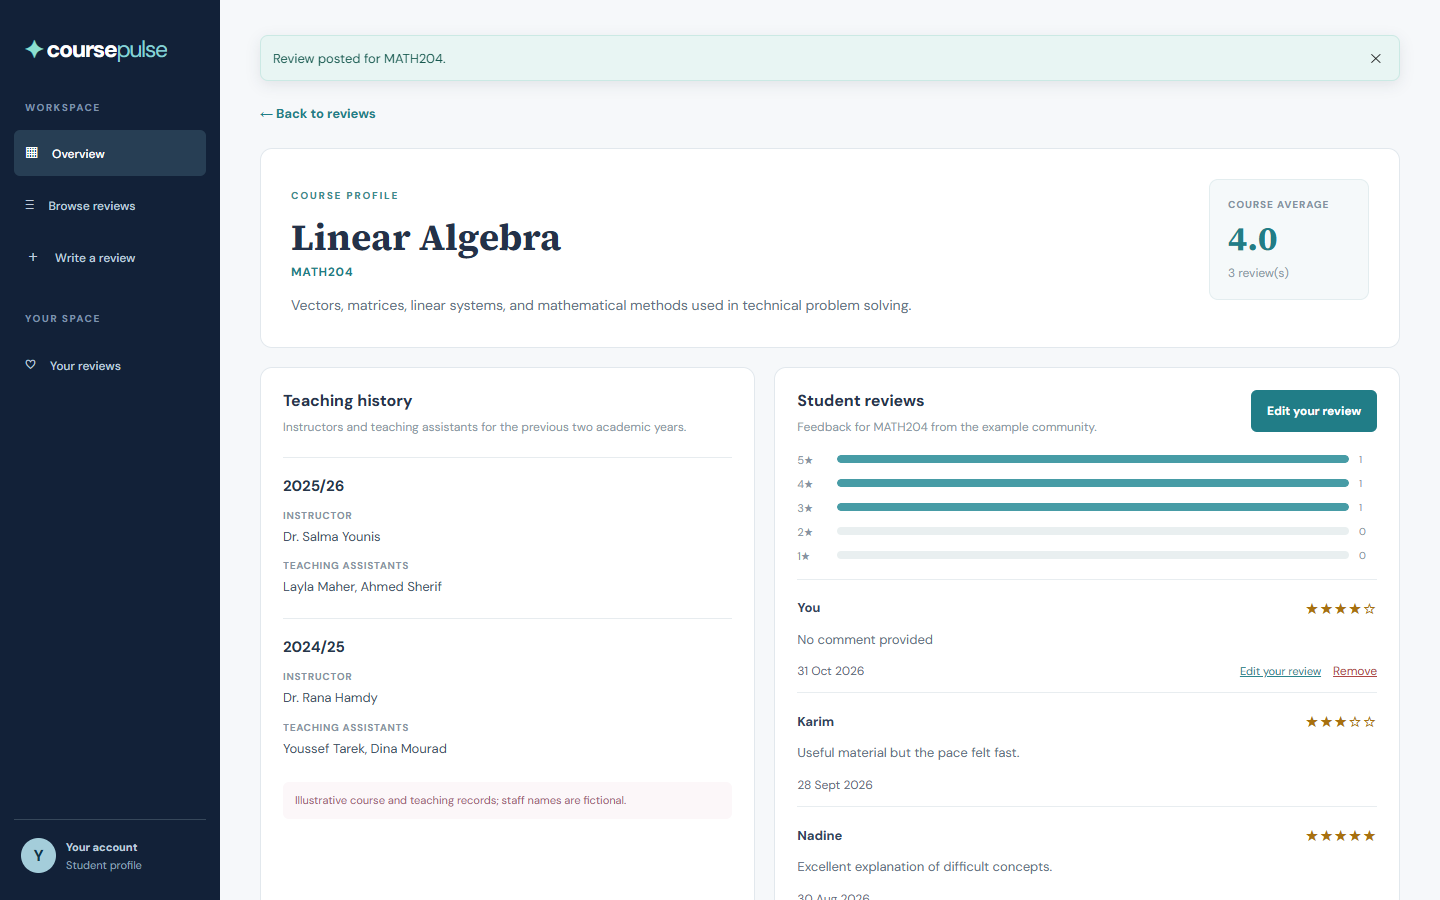
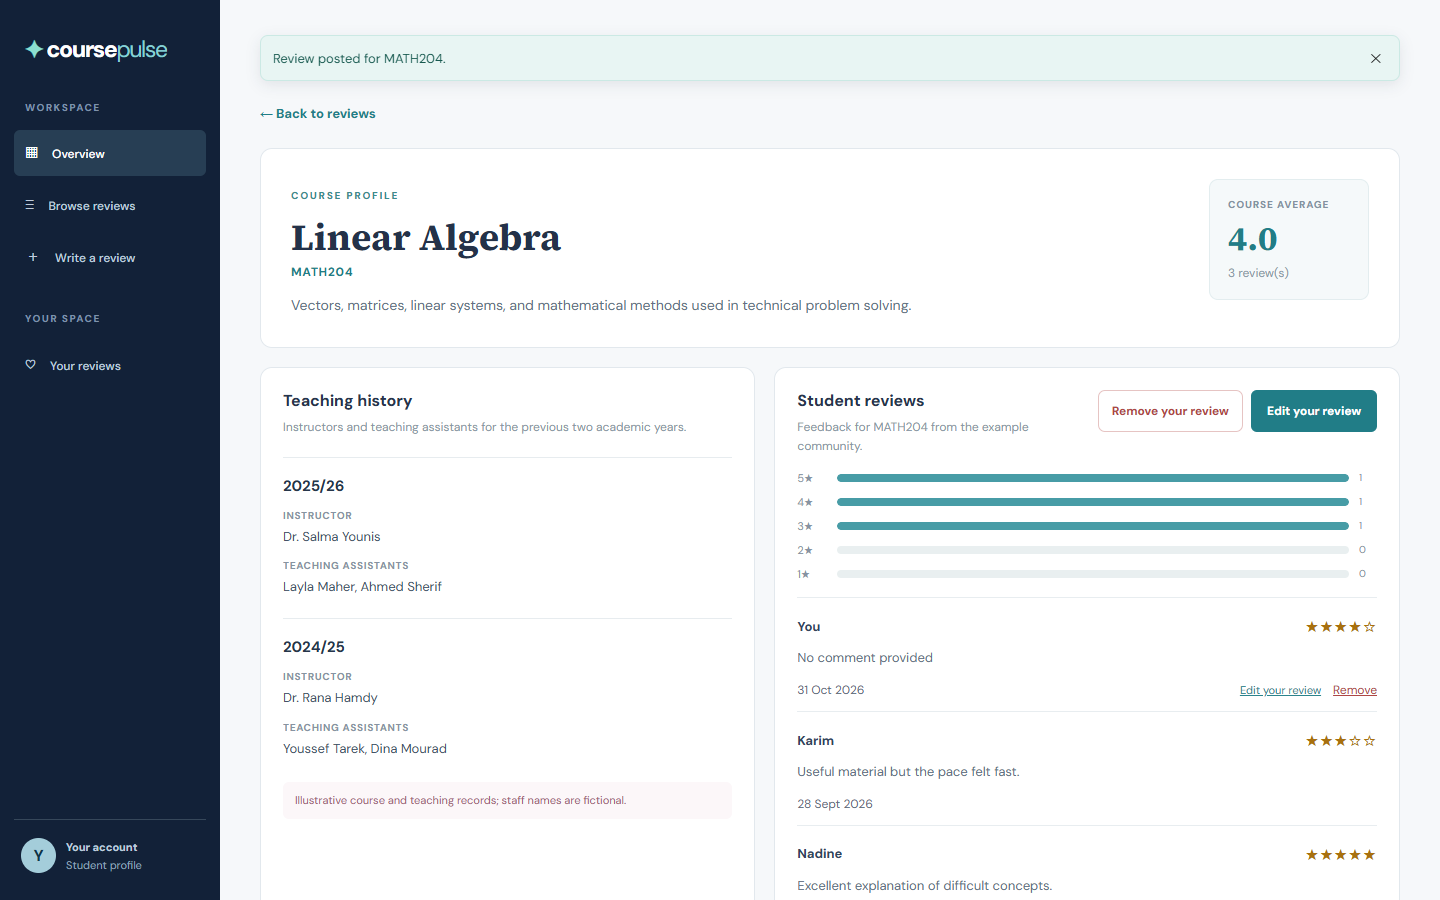
feat: add React application and styles for course reviews and ratings dashboard

diff --git a/src/App.jsx b/src/App.jsx
@@ -196,7 +196,7 @@ export default function App(){
           </div>) : <p className="history-empty">No example teaching records for this course.</p>}
           <p className="teaching-disclaimer">Illustrative course and teaching records; staff names are fictional.</p>
         </section>
-        <section className="panel course-feedback"><div className="detail-review-head"><div><h2>Student reviews</h2><p>Feedback for {activeCourseCode} from the example community.</p></div>{ownHere?<button className="post-review" onClick={()=>openEditor(ownHere)}>Edit your review</button>:<button className="post-review" onClick={()=>openEditor(null,activeCourseCode)}>＋ Review {activeCourseCode}</button>}</div>
+        <section className="panel course-feedback"><div className="detail-review-head"><div><h2>Student reviews</h2><p>Feedback for {activeCourseCode} from the example community.</p></div>{ownHere?<div className="detail-review-actions"><button className="outline remove-review" onClick={()=>removeReview(ownHere)}>Remove your review</button><button className="post-review" onClick={()=>openEditor(ownHere)}>Edit your review</button></div>:<button className="post-review" onClick={()=>openEditor(null,activeCourseCode)}>＋ Review {activeCourseCode}</button>}</div>
           {reviews.some(r=>r.courseCode.toUpperCase()===activeCourseCode)&&<RatingBars list={reviews.filter(r=>r.courseCode.toUpperCase()===activeCourseCode)}/>}
           {reviews.filter(r=>r.courseCode.toUpperCase()===activeCourseCode).length ? reviews.filter(r=>r.courseCode.toUpperCase()===activeCourseCode).map(r=><article className="course-review" key={r.id}>
             <div className="course-review-top"><strong>{r.name}</strong><span>{stars(r.rating)}</span></div><p>{r.comment||'No comment provided'}</p><div className="course-review-meta"><span>{formatDate(r.date)}</span>{r.owner==='you'&&<span className="review-actions"><button className="row-edit" onClick={()=>openEditor(r)}>Edit your review</button><button className="row-remove" onClick={()=>removeReview(r)}>Remove</button></span>}</div>

diff --git a/src/styles.css b/src/styles.css
@@ -61,6 +61,9 @@
 .review-actions{display:inline-flex;gap:12px;white-space:nowrap}
 .row-remove{border:0;background:transparent;color:#ad4745;text-decoration:underline;padding:0;font-size:12px}
 .row-remove:hover{color:#8a2f2d}
+.detail-review-actions{display:flex;flex:none;flex-wrap:wrap;gap:8px}
+.outline.remove-review{color:#ad4745;border-color:#e6c4c3;font-weight:700;white-space:nowrap}
+.outline.remove-review:hover{background:#fff4f4;border-color:#ad4745}
 .modal form>label:has(input){margin-bottom:6px}
 .course-status{min-height:20px;margin-bottom:18px;font-size:12px;line-height:1.6;color:#5a6878}
 .status-ok{color:#17594f;font-weight:600}

diff --git a/submission/SUBMISSION.md b/submission/SUBMISSION.md
@@ -72,7 +72,7 @@
 
 ## Testing
 
-`tests/verify.mjs` drives the running app in headless Chrome. **102 checks pass, 0 fail** (`tests/results.txt`), and the production build succeeds. The checks cover:
+`tests/verify.mjs` drives the running app in headless Chrome. **108 checks pass, 0 fail** (`tests/results.txt`), and the production build succeeds. The checks cover:
 
 - **Validation:** course code required, whole-number ratings 1–5, optional comment, and one review per course, including when editing.
 - **Ownership:** you can only edit or remove your own reviews, in both the table and the course page.
@@ -87,7 +87,7 @@ The script needs `playwright-core`, an installed Chrome and the app running on p
 ## Other behaviour changes
 - "Apply" is removed, because filtering was already live.
 - Reset demo now asks for confirmation, and still restores the example data.
-- New feature: you can remove your own reviews, after a confirmation (`after/13-review-removed.png`, `after/14-course-page-remove.png`). Removing a review frees that course for a new one.
+- New feature: you can remove your own reviews, after a confirmation (`after/13-review-removed.png`, `after/14-course-page-remove.png`). It is available in the review table and on the course page, where a "Remove your review" button sits beside "Edit your review". Removing a review frees that course for a new one.
 
 ## Known limitations
 - The donut chart's segments are still hardcoded in CSS and don't reflect the data.
